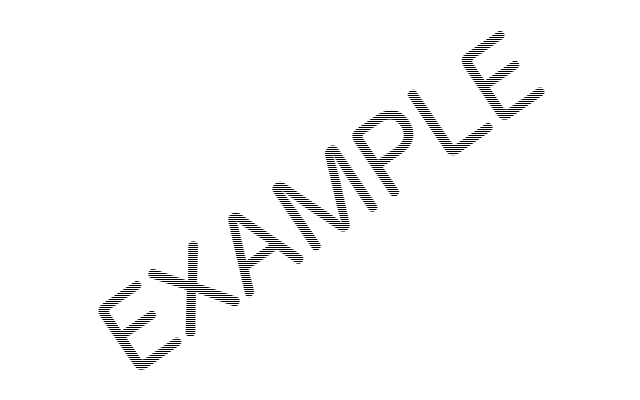
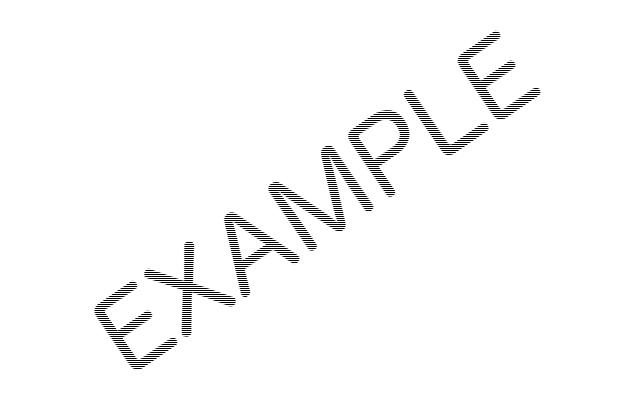
Fixed incorrect resource naming and changed image input to actual interlaced image

Changed region(s): [[0.125, 0.06, 0.8438, 0.93]]

diff --git a/src/main/java/Main.java b/src/main/java/Main.java
@@ -11,7 +11,7 @@ public class Main {
     private Logger logger = Logger.getLogger(Main.class);
 
     public static void main(String[] args) throws IOException {
-        BufferedImage interlacedImage = loadImage(Main.class.getClassLoader().getResource("example_full_frame.png"));
+        BufferedImage interlacedImage = loadImage(Main.class.getClassLoader().getResource("example_odd_field.png"));
         BufferedImage deinterlaceLineDuplication = deinterlaceLineDuplication(interlacedImage);
         writeImage(deinterlaceLineDuplication);
     }
@@ -26,7 +26,7 @@ public class Main {
             returnValueGraphics.drawImage(oddLine, 0, lineIndex, null);
             returnValueGraphics.drawImage(oddLine, 0, lineIndex + 1, null);
         }
-        
+
         returnValueGraphics.dispose();
 
         return returnValue;
